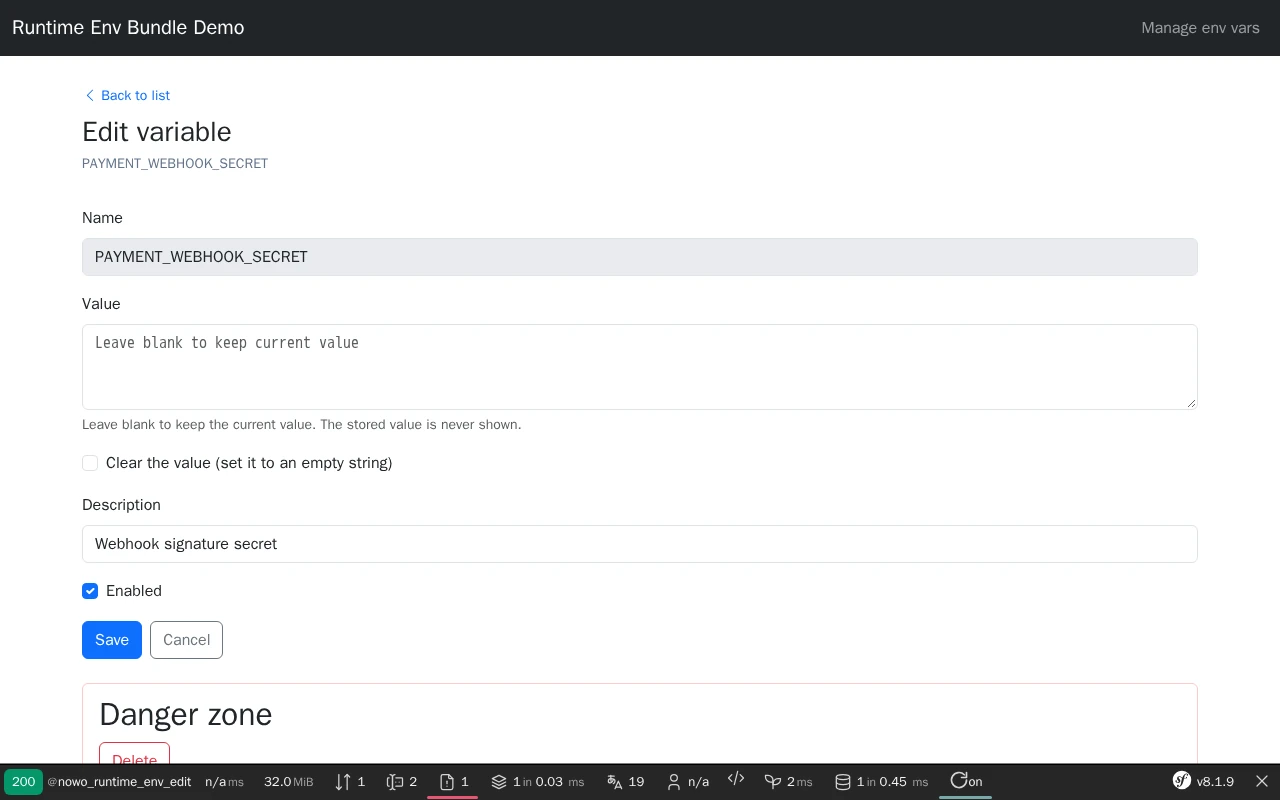
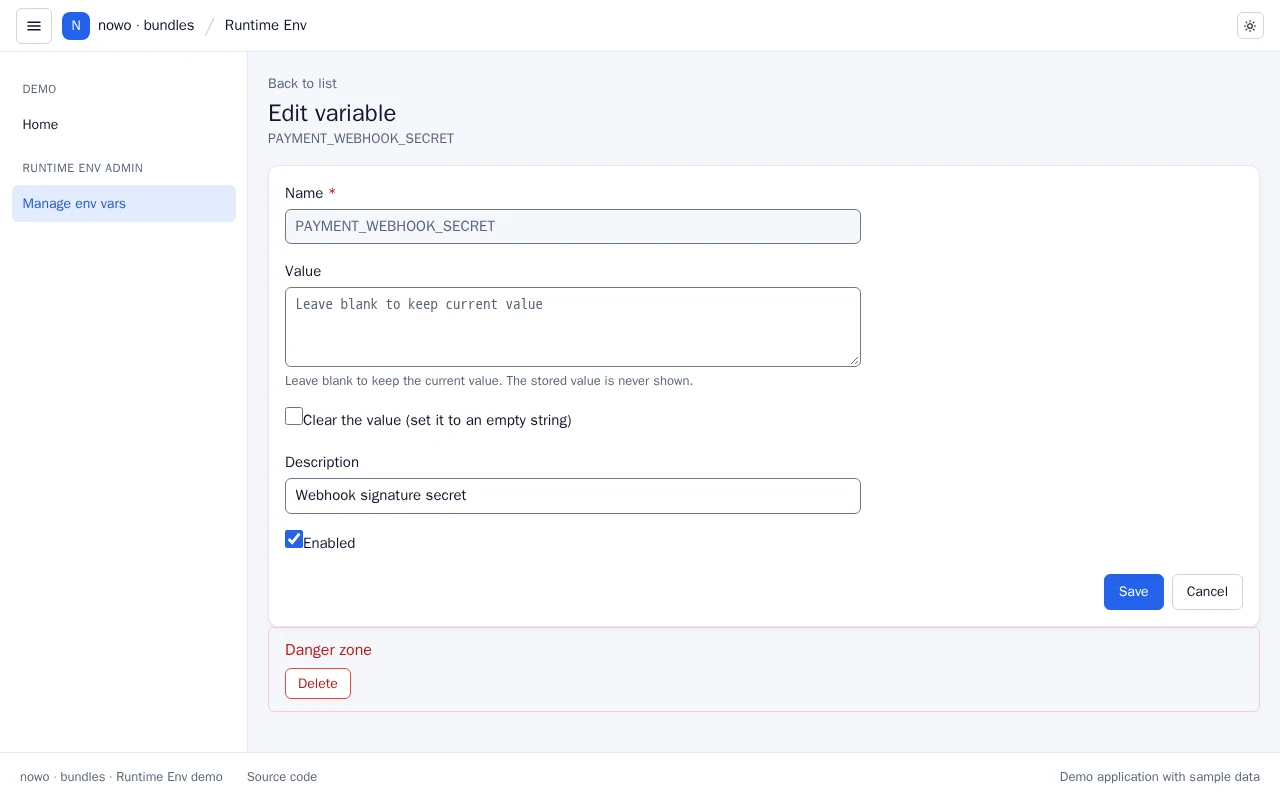
chore(demo): run the demo in UiKit's demo platform shell (#56)
* chore(demo): run the demo in UiKit's demo platform shell

* chore(demo): drop the Flex recipe rewrite of bundles.php and symfony.lock

diff --git a/demo/symfony8/e2e/tests/demo-platform.spec.ts b/demo/symfony8/e2e/tests/demo-platform.spec.ts
@@ -1,0 +1,172 @@
+import { test, expect, type Page } from '@playwright/test';
+import AxeBuilder from '@axe-core/playwright';
+
+/**
+ * REQ-DEMO-014: the demo runs inside UiKit's demo platform shell. Every demo page, at 1440 px and at 390 px with a touch
+ * context: the shell layout and style rules (no demo styles, no host theme tokens, no framework classes, 44 px targets,
+ * input borders 3:1), axe (wcag2a / 2aa / 21a / 21aa, serious + critical = 0) in light and dark, and the keyboard drawer.
+ */
+const PAGES: Array<{ name: string; path: string; auth?: boolean }> = [
+  { name: 'home', path: '/' },
+  { name: 'manage list', path: '/_runtime_env' },
+  { name: 'new variable', path: '/_runtime_env/new' },
+];
+
+/** Signs the demo user in (pages marked `auth`). */
+async function signIn(page: Page): Promise<void> {
+  // this demo has no sign-in
+}
+
+async function open(page: Page, def: { path: string; auth?: boolean }): Promise<void> {
+  if (def.auth) {
+    await signIn(page);
+  }
+  await page.goto(def.path);
+}
+
+type Theme = 'light' | 'dark';
+
+async function setTheme(page: Page, theme: Theme): Promise<void> {
+  await page.evaluate((t) => {
+    document.documentElement.setAttribute('data-theme', t);
+    document.documentElement.setAttribute('data-bs-theme', t);
+  }, theme);
+}
+
+async function axe(page: Page): Promise<string[]> {
+  const result = await new AxeBuilder({ page }).withTags(['wcag2a', 'wcag2aa', 'wcag21a', 'wcag21aa']).exclude('.sf-toolbar').analyze();
+  return result.violations
+    .filter((v) => v.impact === 'serious' || v.impact === 'critical')
+    .map((v) => `${v.id}: ${v.nodes.map((n) => n.target.join(' ')).join(', ')}`);
+}
+
+/* eslint-disable */
+// prettier-ignore
+function demoPlatformRules(): string[] {
+  const issues = [];
+  const main = document.querySelector('#nowo-ui-content');
+  const shell = document.querySelector('[data-testid="demo-platform"]');
+  if (!main || !shell) return ['no-demo-platform-shell'];
+  const visible = (el) => !!(el.offsetWidth || el.offsetHeight || el.getClientRects().length);
+  const carded = (el) => el.closest('.nowo-ui-card, [data-nowo-ui-region="table"], [data-nowo-ui-region="form"], .nowo-ui-form-panel, dialog');
+  const skip = (el) => el.closest('dialog, [data-nowo-ui-region="filters"], .nowo-ui-filters, .nowo-ui-page-header');
+
+  // Layout grammar.
+  main.querySelectorAll('table').forEach((t) => { if (!carded(t)) issues.push('table-outside-card'); });
+  main.querySelectorAll('form').forEach((f) => {
+    if (f.querySelector('input:not([type="hidden"]), select, textarea') && !carded(f) && !skip(f) && !f.closest('table')) issues.push('form-outside-card');
+  });
+  const primaries = [...main.querySelectorAll('.nowo-ui-btn--primary')].filter((b) => visible(b) && !b.closest('table, dialog, [data-nowo-ui-region="filters"], .nowo-ui-filters, form'));
+  if (primaries.length > 1) issues.push(`primary-buttons:${primaries.length}`);
+  const header = main.querySelector('.nowo-ui-page-header');
+  const flashes = main.querySelector('.nowo-ui-flashes');
+  if (header && flashes && (flashes.compareDocumentPosition(header) & Node.DOCUMENT_POSITION_FOLLOWING)) issues.push('flashes-before-page-header');
+  if (document.documentElement.scrollWidth > document.documentElement.clientWidth + 1) issues.push('page-scrolls-horizontally');
+
+  // Styles: no demo styles, no host theme tokens, no CDN / foreign stylesheet, no framework classes inside the shell.
+  document.querySelectorAll('style').forEach((s) => {
+    if (s.matches('[data-nowo-ui-theme-tokens], [data-nowo-ui-appearance]')) { issues.push('host-theme-tokens'); return; }
+    if (!/sf-toolbar|sfwdt|sf-minitoolbar|sf-display/.test(s.textContent || '') && !s.closest('[id^="sfwdt"], .sf-toolbar')) issues.push('style-element');
+  });
+  document.querySelectorAll('link[rel="stylesheet"]').forEach((l) => {
+    const path = new URL(l.href, location.href).pathname;
+    if (!path.startsWith('/bundles/') && !path.startsWith('/_wdt/') && !path.startsWith('/_profiler/')) issues.push(`stylesheet:${path}`);
+  });
+  const framework = /^(acme-.*|nav-tabs|nav-link|nav-item|alert|alert-.*|form-check.*|form-control|form-select|form-label|btn|btn-.*|card|card-.*|badge|row|col|col-.*|table|table-.*)$/;
+  shell.querySelectorAll('[class]').forEach((el) => {
+    for (const c of el.classList) { if (framework.test(c)) { issues.push(`framework-class:${c}`); break; } }
+  });
+
+  // Drawer: below 901 px a closed drawer is inert and the burger says so.
+  const aside = shell.querySelector('[data-nowo-ui-aside]');
+  if (aside && window.innerWidth < 901) {
+    const open = shell.classList.contains('is-aside-open-mobile');
+    if (!open && !aside.hasAttribute('inert')) issues.push('drawer-not-inert');
+    shell.querySelectorAll('[data-nowo-ui-burger]').forEach((b) => {
+      if (visible(b) && b.getAttribute('aria-expanded') !== (open ? 'true' : 'false')) issues.push('burger-state');
+    });
+  }
+
+  // Touch: 44 px targets on coarse pointers (checkbox / radio 24 px, their label carries the 44 px row).
+  if (window.matchMedia('(pointer: coarse)').matches) {
+    const controls = [...shell.querySelectorAll('.nowo-ui-btn, button, summary, input:not([type="hidden"]), select, textarea, [role="tab"], .nowo-ui-aside__link, .nowo-ui-demo-platform__locale')]
+      .filter((el) => visible(el) && !el.closest('[inert], table, .ts-control'));
+    for (const el of controls) {
+      const r = el.getBoundingClientRect();
+      const small = el.matches('input[type="checkbox"], input[type="radio"]') ? r.height < 24 || r.width < 24 : r.height < 43.5;
+      if (small) { issues.push(`target-under-44px:${(el.className && String(el.className).split(' ')[0]) || el.tagName.toLowerCase()}`); }
+    }
+  }
+
+  // Inputs: boundary 3:1 or more against the surface behind them (WCAG 1.4.11).
+  const rgb = (c) => { const m = c.match(/[\d.]+/g); return m ? m.slice(0, 4).map(Number) : null; };
+  const lum = (c) => { const v = c.slice(0, 3).map((x) => { const s = x / 255; return s <= 0.03928 ? s / 12.92 : ((s + 0.055) / 1.055) ** 2.4; }); return 0.2126 * v[0] + 0.7152 * v[1] + 0.0722 * v[2]; };
+  const bgOf = (el) => { for (let n = el.parentElement; n; n = n.parentElement) { const c = rgb(getComputedStyle(n).backgroundColor); if (c && (c.length < 4 || c[3] > 0)) return c; } return [255, 255, 255]; };
+  shell.querySelectorAll('input:not([type="hidden"], [type="checkbox"], [type="radio"]), select, textarea').forEach((el) => {
+    if (!visible(el) || el.closest('[inert]')) return;
+    const border = rgb(getComputedStyle(el).borderTopColor);
+    if (!border) return;
+    const a = lum(border); const b = lum(bgOf(el));
+    if ((Math.max(a, b) + 0.05) / (Math.min(a, b) + 0.05) < 3) issues.push(`input-border-under-3:1:${el.id || el.name || el.tagName.toLowerCase()}`);
+  });
+
+  return [...new Set(issues)];
+}
+
+const PHONE = { viewport: { width: 390, height: 844 }, isMobile: true, hasTouch: true };
+
+for (const def of PAGES) {
+  test.describe(`demo platform: ${def.name}`, () => {
+    test('rules at 1440 px', async ({ page }) => {
+      await page.setViewportSize({ width: 1440, height: 900 });
+      await open(page, def);
+      expect(await page.evaluate(demoPlatformRules)).toEqual([]);
+    });
+
+    test('rules at 390 px, touch', async ({ browser }) => {
+      const context = await browser.newContext(PHONE);
+      const page = await context.newPage();
+      await open(page, def);
+      expect(await page.evaluate(demoPlatformRules)).toEqual([]);
+      await context.close();
+    });
+
+    for (const theme of ['light', 'dark'] as const) {
+      test(`axe ${theme}, 1440 px`, async ({ page }) => {
+        await page.setViewportSize({ width: 1440, height: 900 });
+        await open(page, def);
+        await setTheme(page, theme);
+        expect(await axe(page)).toEqual([]);
+      });
+
+      test(`axe ${theme}, 390 px`, async ({ browser }) => {
+        const context = await browser.newContext(PHONE);
+        const page = await context.newPage();
+        await open(page, def);
+        await setTheme(page, theme);
+        expect(await axe(page)).toEqual([]);
+        await context.close();
+      });
+    }
+  });
+}
+
+test('phone drawer: keyboard in and out, inert while closed', async ({ browser }) => {
+  const context = await browser.newContext(PHONE);
+  const page = await context.newPage();
+  await page.goto(PAGES[0].path);
+  const aside = page.locator('[data-nowo-ui-aside]');
+  const burger = page.locator('[data-nowo-ui-burger]').first();
+  await expect(aside).toHaveAttribute('inert', '');
+  await expect(burger).toHaveAttribute('aria-expanded', 'false');
+  await burger.focus();
+  await page.keyboard.press('Enter');
+  await expect(burger).toHaveAttribute('aria-expanded', 'true');
+  await expect(page.locator('[data-nowo-ui-aside] a:focus')).toHaveCount(1);
+  await expect(page.locator('.nowo-ui-main')).toHaveAttribute('inert', '');
+  await expect(page.locator('html')).toHaveClass(/nowo-ui-drawer-open/);
+  await page.keyboard.press('Escape');
+  await expect(burger).toBeFocused();
+  await expect(aside).toHaveAttribute('inert', '');
+  await context.close();
+});

diff --git a/demo/symfony8/e2e/tests/screenshots.spec.ts b/demo/symfony8/e2e/tests/screenshots.spec.ts
@@ -1,7 +1,7 @@
 import { test, expect } from '@playwright/test';
 import { mkdirSync } from 'node:fs';
 import { resolve } from 'node:path';
-import { deleteVariables, gotoVariable, rowOf, waitForWebProfiler } from './helpers';
+import { deleteVariables, gotoVariable, rowOf, hideWebProfiler } from './helpers';
 
 /** REQ-DEMO-013 — README screenshots (captured as PNG, converted to WebP by scripts/to-webp.mjs). */
 const outDir = process.env.SCREENSHOT_DIR
@@ -23,7 +23,7 @@ test.describe('RuntimeEnv screenshots', () => {
   test('manage-panel — encrypted variables listed with masked values', async ({ page }) => {
     await page.goto('/_runtime_env');
     await expect(rowOf(page, 'MY_API_TOKEN')).toBeVisible();
-    await waitForWebProfiler(page);
+    await hideWebProfiler(page);
     await page.screenshot({ path: resolve(outDir, 'manage-panel.png') });
   });
 
@@ -31,14 +31,14 @@ test.describe('RuntimeEnv screenshots', () => {
     expect(await gotoVariable(page, 'PAYMENT_WEBHOOK_SECRET')).toBeTruthy();
     await rowOf(page, 'PAYMENT_WEBHOOK_SECRET').getByRole('link', { name: 'Edit' }).click();
     await expect(page.getByLabel('Value', { exact: true })).toHaveValue('');
-    await waitForWebProfiler(page);
+    await hideWebProfiler(page);
     await page.screenshot({ path: resolve(outDir, 'manage-edit.png') });
   });
 
   test('runtime-env-bag — value read on the next request without restarting the worker', async ({ page }) => {
     await page.goto('/');
     await expect(page.getByText(/^Value:/)).toBeVisible();
-    await waitForWebProfiler(page);
+    await hideWebProfiler(page);
     await page.screenshot({ path: resolve(outDir, 'runtime-env-bag.png') });
   });
 });

diff --git a/demo/symfony8/e2e/tests/helpers.ts b/demo/symfony8/e2e/tests/helpers.ts
@@ -1,27 +1,5 @@
 import { expect, type Locator, type Page } from '@playwright/test';
 
-/** Wait until the Symfony Web Debug Toolbar has finished loading (optional outside dev). */
-export async function waitForWebProfiler(page: Page): Promise<void> {
-  await page.waitForSelector('.sf-toolbar', { state: 'visible', timeout: 20000 }).catch(() => undefined);
-  const mini = page.locator('.sf-minitoolbar a').first();
-  if (await mini.isVisible().catch(() => false)) {
-    await mini.click();
-  }
-  await page
-    .waitForFunction(
-      () => {
-        const bar = document.querySelector('.sf-toolbar') as HTMLElement | null;
-        if (!bar || bar.offsetParent === null) {
-          return true;
-        }
-        return !!document.querySelector('.sf-toolbar-block');
-      },
-      { timeout: 25000, polling: 250 },
-    )
-    .catch(() => undefined);
-  await new Promise((r) => setTimeout(r, 400));
-}
-
 /** Rows of the manage list (UiKit list scaffold, data-testid on the scaffold root). */
 export function listRows(page: Page): Locator {
   return page.locator('[data-testid="runtime-env-variables"] table tbody tr');
@@ -79,4 +57,9 @@ export async function deleteVariables(page: Page, pattern: RegExp): Promise<void
   while (await gotoVariable(page, pattern)) {
     await deleteRow(page, rowOf(page, pattern).first());
   }
+}
+
+/** README screenshots never show the Symfony Web Debug Toolbar. */
+export async function hideWebProfiler(page: Page): Promise<void> {
+  await page.addStyleTag({ content: '.sf-toolbar, .sf-minitoolbar, [id^="sfwdt"] { display: none !important; }' });
 }

diff --git a/docs/CHANGELOG.md b/docs/CHANGELOG.md
@@ -38,6 +38,7 @@ and this project adheres to [Semantic Versioning](https://semver.org/spec/v2.0.0
 
 ### Changed
 
+- demo: the demo runs inside UiKit's demo platform shell (`@NowoUiKit/demo_platform/layout.html.twig`, UiKit ^2.60): shared top bar, aside navigation and section cards, no demo masthead markup; the Web Debug Toolbar and the CDN hot-reload scripts are off in the demo and its README screenshots. Demo only, no release.
 - CI: new `deps-floor` job (as in BreadcrumbKit). It checks that the demo lock installs every nowo-tech requirement of the bundle (`.scripts/check-demo-lock.py`), then downgrades nowo-tech/transaction-* to the lowest versions composer.json allows (`composer update 'nowo-tech/transaction-*' --prefer-lowest`) and runs PHPStan and the tests there, so a call to a newer API than the constraint allows fails the pull request.
 - Demo: `make update-bundle` runs `composer update nowo-tech/runtime-env-bundle -w`, so the bundle's new or raised requirements reach the demo lock too.
 - Requires `nowo-tech/transaction-doctrine` ^1.8.1 (fixes GHSA-9wh3-m3m5-jffx and GHSA-65w2-9r4h-848g).
